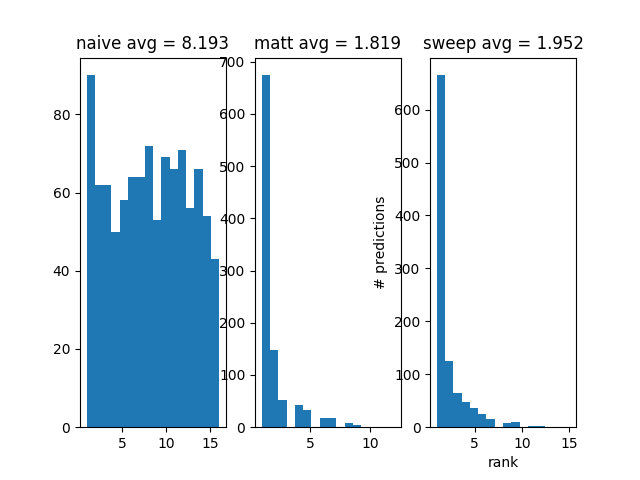
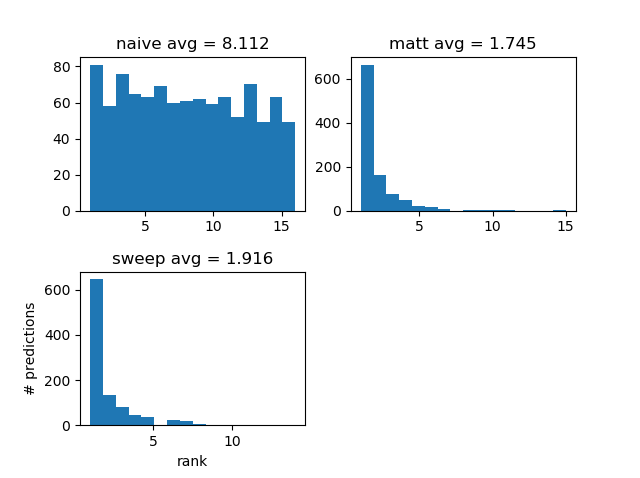
added info to FeatureSelection notebook, changed figure 4
added more information about how the mRMR results were obtained with the csv file created with the FeatureSelection jupyter file
also changed Figure 4 and the corresponding code to produce it so that the plots have a bit more space and are easier to read

diff --git a/ML_Algs/plot_ranks_.py b/ML_Algs/plot_ranks_.py
@@ -128,15 +128,16 @@ matt_avg = matt_avg / samples
 naive_avg = naive_avg / samples
 
 #print average per prediction
-plt.subplot(1, 3, 1)
+plt.subplot(2, 2, 1)
 plt.hist(naive, 16)
 plt.title('naive avg = {}'.format(naive_avg))
-plt.subplot(1, 3, 2)
+plt.subplot(2, 2, 2)
 plt.hist(val_scores2, 16)
 plt.title('matt avg = {}'.format(matt_avg))
-plt.subplot(1, 3, 3)
+plt.subplot(2, 2, 3)
 plt.hist(val_scores, 16)
 plt.title('sweep avg = {}'.format(sweep_avg))
 plt.xlabel('rank')
 plt.ylabel('# predictions')
+plt.subplots_adjust(hspace = 0.4)
 plt.show()
